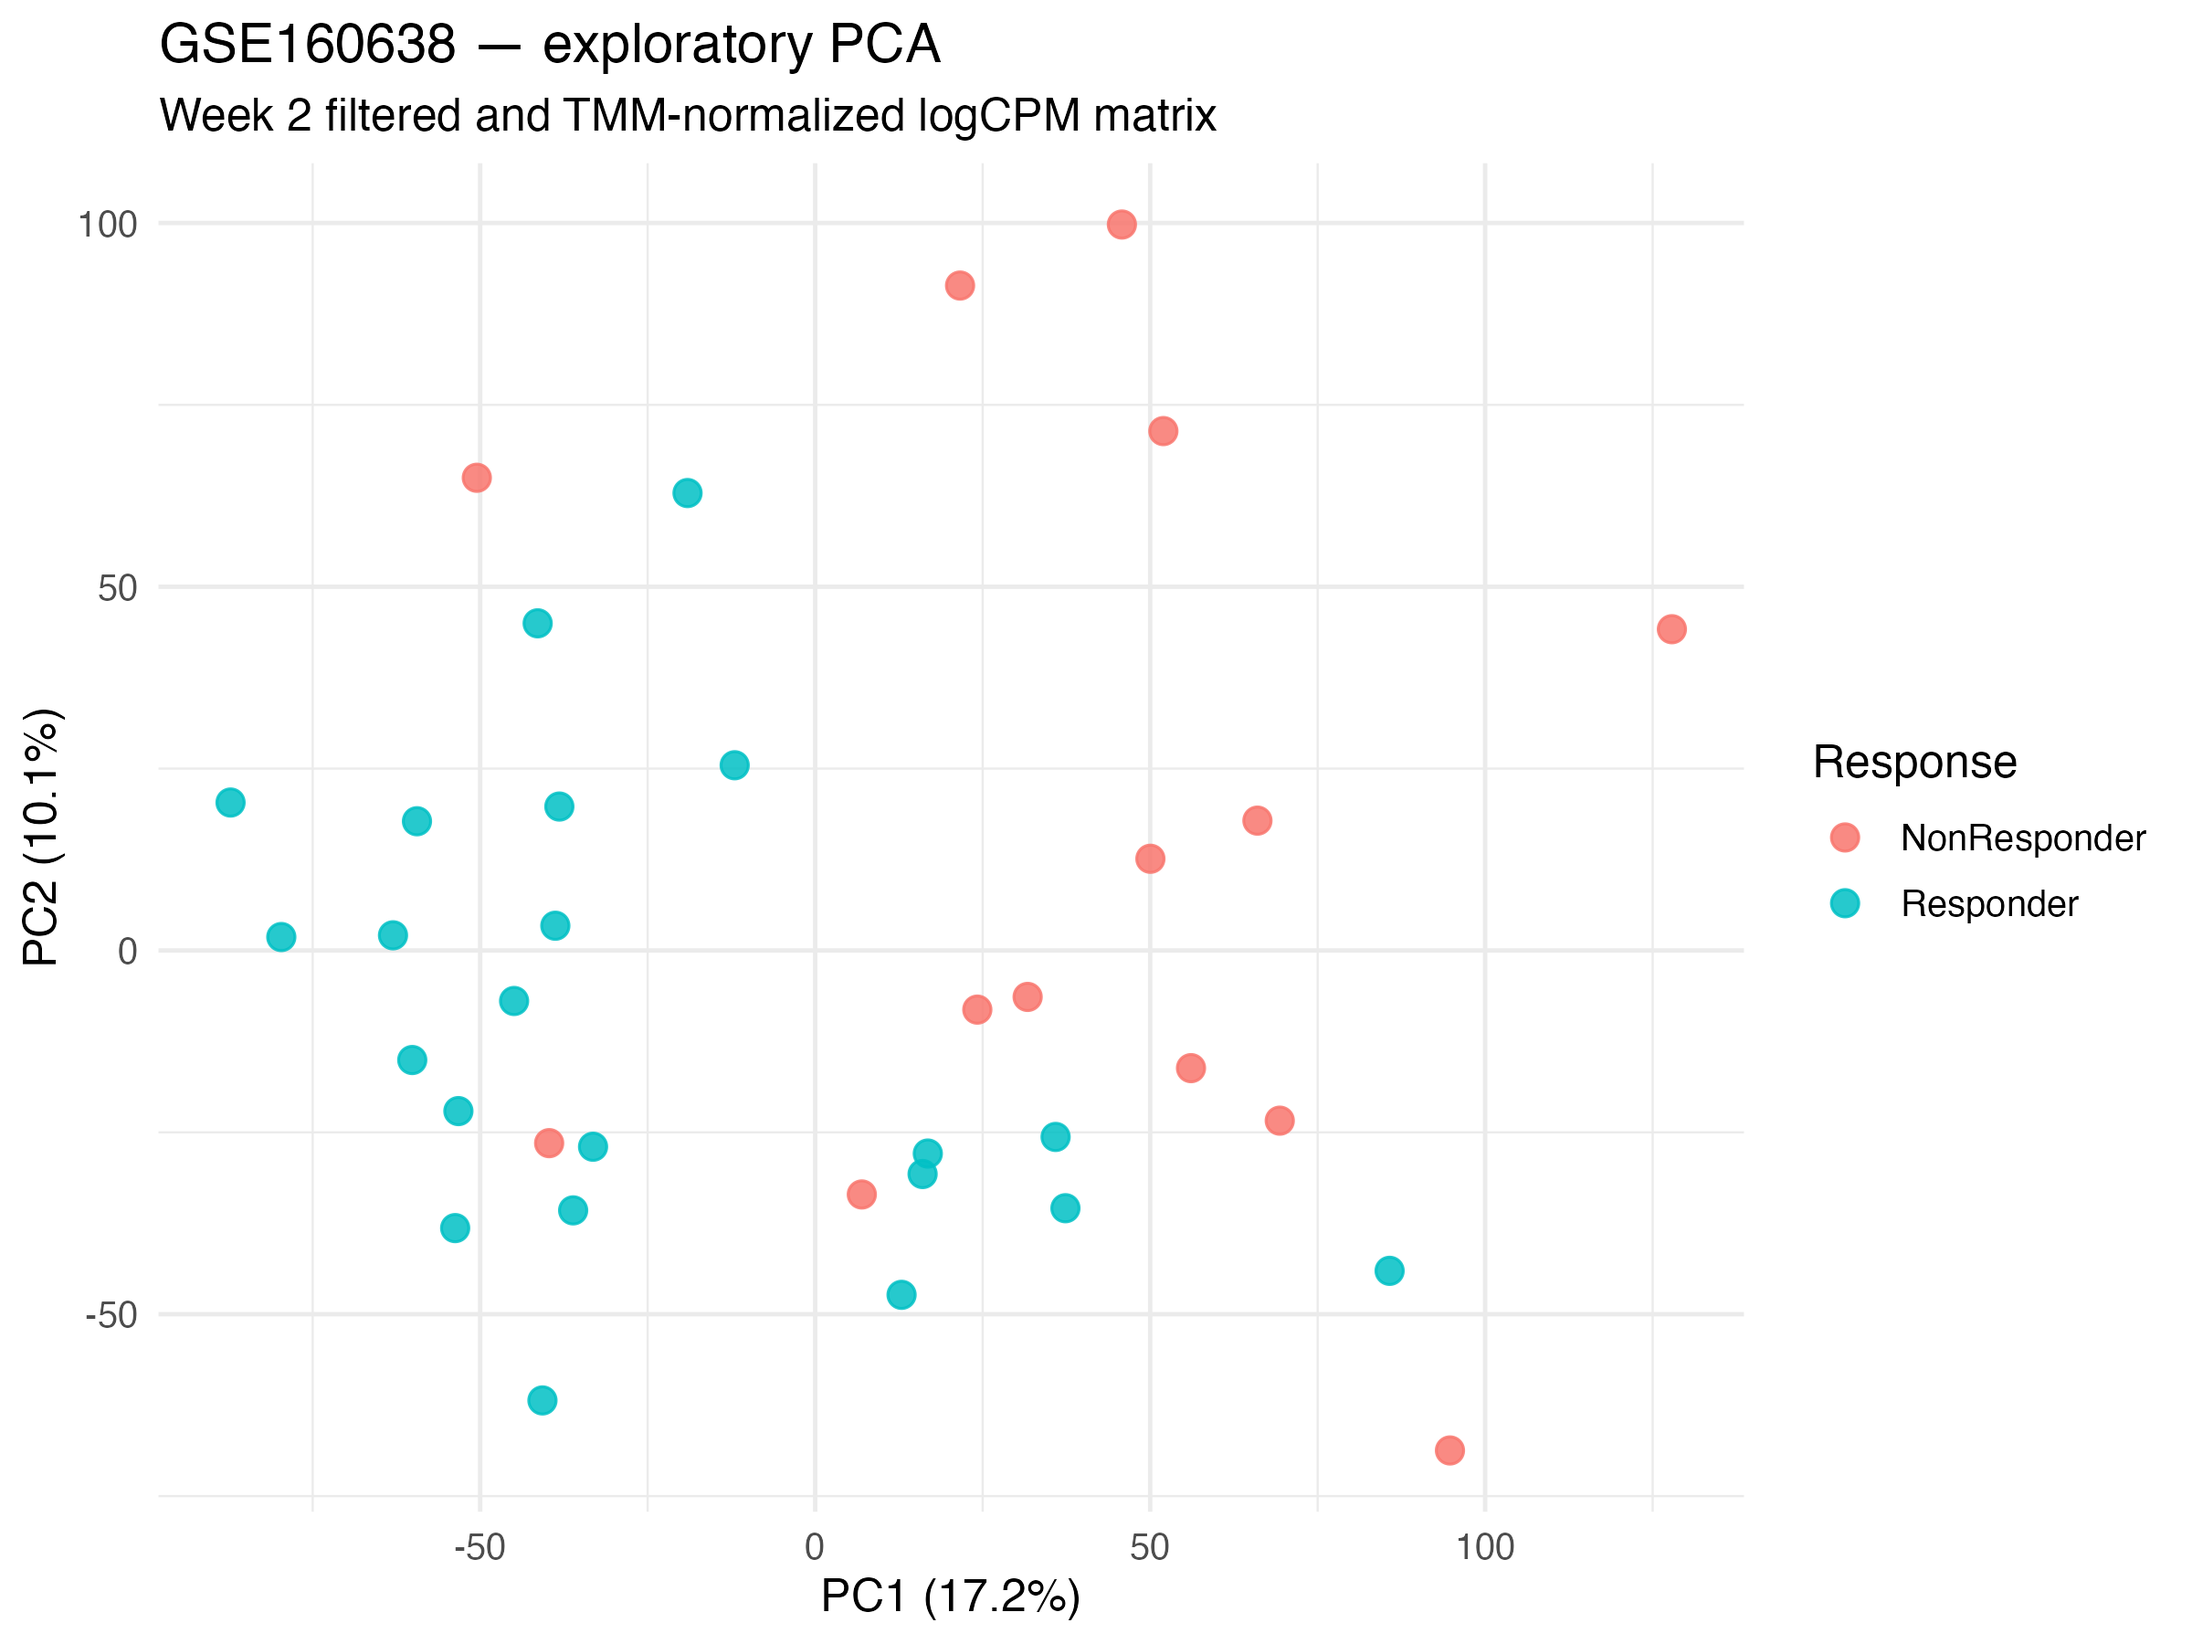
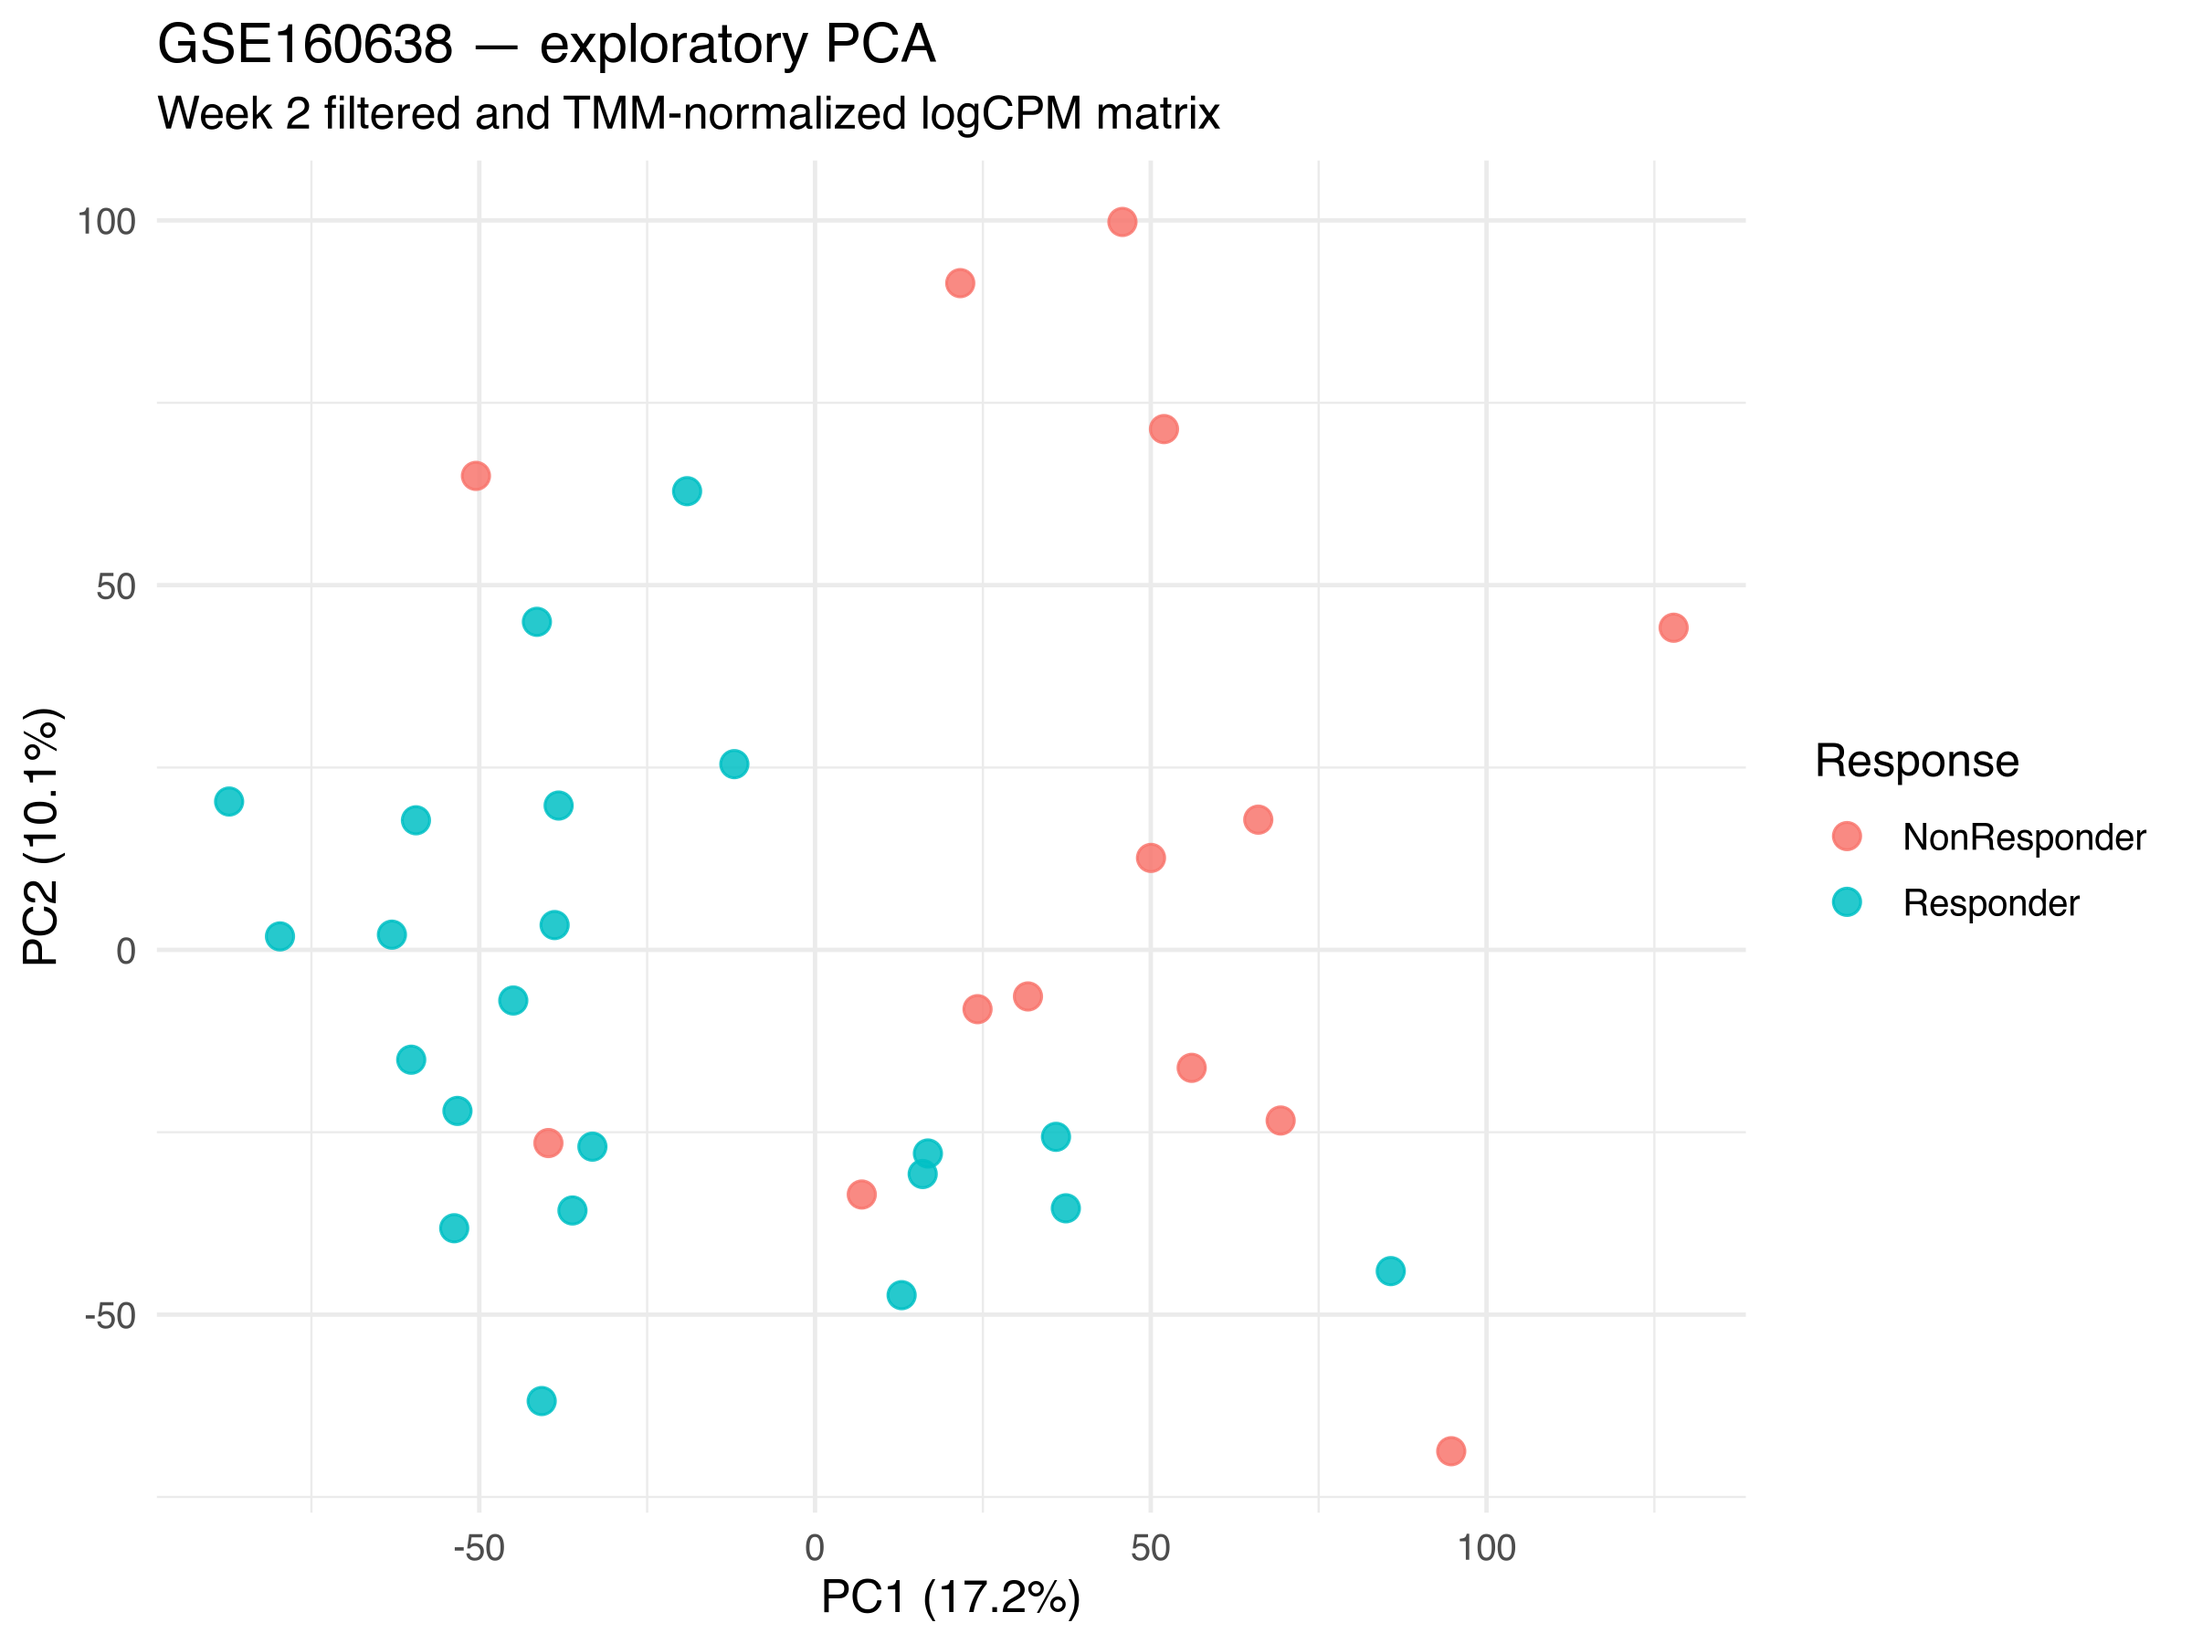
Fix deterministic W2 PCA rendering for W8 reproducibility

diff --git a/docs/w8_release_contract.md b/docs/w8_release_contract.md
@@ -72,3 +72,31 @@ The final release requires:
 9. Final tagged portfolio release.
 
 Any failed gate requires review before release certification.
+
+## W8 reproducibility remediation
+
+During the W8 clean-room end-to-end regeneration audit, the protected
+Week 2 exploratory PCA numerical outputs reproduced exactly, but the
+historical PNG raster did not reproduce byte-for-byte.
+
+The historical `figures/week2_pca_exploratory.png` predates the formal
+locked `renv` reproducibility environment. Investigation showed that the
+difference was restricted to graphics rendering; PCA scores, explained
+variance and other protected analytical outputs remained unchanged.
+
+A controlled graphics-backend audit demonstrated deterministic repeated
+rendering with the Cairo PNG backend at the existing 2400 x 1800 pixel,
+300 dpi RGB output contract.
+
+Therefore W8 applies one explicit reproducibility remediation:
+
+- `scripts/04_exploratory_analysis.R` explicitly fixes the PCA PNG device
+  to `grDevices::png` with `type = "cairo"`.
+- `figures/week2_pca_exploratory.png` is regenerated under that locked
+  graphics contract.
+- No model, cohort, preprocessing logic, PCA values, predictive result,
+  threshold, feature selection or biological conclusion is changed.
+
+This remediation is a reproducibility fix rather than an analytical
+revision and is permitted by the protected-baseline exception defined
+in this contract.
